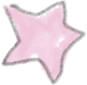
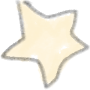
颜色更改

diff --git a/origin/js/app.js b/origin/js/app.js
@@ -6,18 +6,18 @@ import "imgs/fm3_active1_2.png"
 import "imgs/fm3_active2_2.png"
 import "imgs/fm3_active4_2.png"
 import Preload from "js/preload.js"
+import Http from "js/http.js"
 //public
-var log = function (m) { (document.ontouchstart!==null) ?  (alert(m)) : (console.log(m)); }
 var App = {
+    loginUrl: "http://2016spr.disney.e2capp.com/wxapi.php",
     init: function () { //初始化
-        //App.fm_enter(".fm_award"); App.lottery_result(); return;
         App.fm_enter(".fm1");
         setTimeout(function () {
             $(".fm1").fadeOut(1000);
             setTimeout(function () {
                 App.fm_enter(".fm2");
             },1000)
-        },2200)
+        },2200);
     },
     tip: function(_info,_style,_hideTime){ //_style的值有'tip_red'、'tip_green',默认值为'tip_default'
         var randomClass = "tip"+Math.round(Math.random()*1000000000);
@@ -98,11 +98,9 @@ var App = {
         }
         //频道fm_result
         (_fm.indexOf("fm_result") > 0) && setTimeout(function (){
-            App.blink(".fm_baba", 2, null, 500); //执行眨眼操作
+            //App.blink(".fm_baba", 2, null, 500); //执行眨眼操作
             $(_fm).find(".fm_result_star").addClass("fadeOut"); //星星闪烁操作
         },1200);
-        /*//频道fm_noaward
-         _fm == ".fm_noaward" && App.blink(".fm_baba", 2);*/
     },
     gameover: function(){ //游戏结束
         var _score = $(".fm3_score").html()-0;
@@ -110,31 +108,49 @@ var App = {
         window.removeEventListener('deviceorientation', App.tiltEvent);
     },
     lottery_result: function () {
-        //TODO ajax后台获取用户中奖结果,根据结果进入相关结果页面
-        var award_data = "fm_award1",
-            _ercode = "./imgs/fm_ercode222.png";
-        if(award_data=="fm_award1"){ //fm_award1:现金券[后台获取二维码图]
-            $(".fm_ercode").css("backgroundImage","url("+_ercode+")");
-            $(".fm_award").addClass("fm_award1");
-            App.fm_enter(".fm_award");
-        }else if(award_data=="fm_award2"){ //fm_award2:手机壳
-            $(".fm_award").addClass("fm_award2");
-            App.fm_enter(".fm_award");
-        }else{
-            App.fm_enter(".fm_noaward");
-        }
-        /*//未中奖页面
-         App.fm_enter(".fm_noaward");*/
+        Http.goprize(function (_data) { //获取抽奖结果
+            var _state = _data && _data.state;
+            if(_state=="-100"){ //未登录
+                window.location.href = App.loginUrl;
+            }else if(_state=="-1"){
+                App.tip("抱歉，您的抽奖机会已经用完了~");
+            }else{
+                if(_state=="1"){ //fm_award1:现金券
+                    var _ercode = "./imgs/fm_award1.jpg";
+                    //TODO 后台获取二维码图赋值给_ercode
+                    $("#fm_award").attr("src",_ercode);
+                    $(".fm_award").addClass("fm_award1");
+                    App.fm_enter(".fm_award");
+                }else if(_state=="2"){ //fm_award2:手机壳
+                    $(".fm_award").addClass("fm_award2");
+                    App.fm_enter(".fm_award");
+                }else if(_state=="0"){ //未中奖
+                    App.fm_enter(".fm_noaward");
+                }else{
+                    App.tip("网络错误");
+                }
+            }
+        });
     }
 }
 $(document).ready(function () {
+    window.isDebugger = false;
+    window.log = function (m) { (document.ontouchstart!==null) ?  (isDebugger &&　alert(m)) : (console.log(m)); }
     var body_w, body_h;
     var _triggerEvent = (document.ontouchstart!==null) ?  'click' : 'touchstart';
     var scale_fm3_bg = 2551/1206;
     var templ_fm3 = $(".fm3").html();
     var is_mark = false; //是否登记过信息
-    //TODO ajax后台检测是否提交过信息，若登陆过更改is_mark的值为true
-    Preload.init(App.init); //init事件
+    Http.checkLogin(function (_data) { //检测是否登陆[-1为未登录，1为登陆]
+        if(_data=="1"){ //已登陆
+            Preload.init(App.init); //init事件
+            Http.getuserinfo(function (_data) { //获取登陆用户自己的用户资料
+                _data && _data.Tel && (is_mark = true);
+            });
+        }else if(_data=="-1"){ //未登录
+            window.location.href = App.loginUrl;
+        }
+    });
     //fm3_active点击事件【眼睛被点击】
     $("body").on(_triggerEvent,".fm3_active",function (e) {
         (e.target.nodeName=="IMG") ? $(this).attr("src",$(this).data("open")).removeClass("fm3_active") : $(this).remove(); //替换打开图片或移除眼睛
@@ -169,11 +185,18 @@ $(document).ready(function () {
     var phone_regex = new RegExp("1[0-9]{10}");
     $("body").on(_triggerEvent,".fm_result3_btn1",function () {
         var _name = $(".fm_result3_input1").val(), _phone = $(".fm_result3_input2").val();
-        function _passFun() {
-            //TODO ajax后台用户信息提交
-            App.lottery_result();
+        function _passFun(_name,_phone) {
+            Http.updateinfo(_name,_phone, function (_data) { //提交用户信息
+                if(_data=="1"){ //提交成功
+                    App.lottery_result();
+                }else if(_data=="-1"){ //未登录
+                    window.location.href = App.loginUrl;
+                }else if(_data=="-2"){
+                    App.tip("请将信息填写完整");
+                }
+            })
         }
-        (!_name || !_phone) ? App.tip("请将信息填写完整") : ( !phone_regex.test(_phone) ? App.tip("请填写正确的手机号") : _passFun() );
+        (!_name || !_phone) ? App.tip("请将信息填写完整") : ( !phone_regex.test(_phone) ? App.tip("请填写正确的手机号") : _passFun(_name,_phone) );
     });
     //fm_award_btn1点击事件【Replay】
     $("body").on(_triggerEvent,".fm_award_btn1",function () {

diff --git a/origin/css/public.css b/origin/css/public.css
@@ -25,12 +25,12 @@ html,body { height: 100%; max-width: 640px; margin: 0 auto; overflow: hidden; }
 .fm { position: absolute; z-index: 1; width: 100%; height: 100%; display: none; }
 .fm_loading, .fm.cur { display: block; }
 .fm_inmid {position: absolute;width: 100%;background-size: auto 100%;background-position: 50% 50%;background-repeat: no-repeat;text-align: center;}
-.fm_mask1, .fm_mask2 {z-index: 2;background-color: rgba(231,175,204,.92);background-repeat:no-repeat;background-size: 74% auto;background-position: 48% 40%;}
-.fm_mask1 {background-image: url("../imgs/fm_mask1.png"); }
-.fm_mask2 {background-image: url("../imgs/fm_mask2.png"); }
+.fm_mask1, .fm_mask2 {z-index: 2;background-color: rgba(253,239,204,.92);background-repeat:no-repeat;background-size: 74% auto;background-position: 48% 40%;}
+.fm_mask1 {background-image: url("../imgs/fm_mask1.png");background-size: 64% auto;}
+.fm_mask2 {background-image: url("../imgs/fm_mask2.png");}
 .fm_loading span { position: absolute; width: 100%; text-align: center; top: 30%; font-size: 73px; color: #FFF;}
 .fm_loading, .fm1 { background-position: 50% 43%; background-repeat: no-repeat; background-size: 50% auto; }
-.fm_loading, .fm1.state1 { background-color: #e7afcc; background-image: url("../imgs/fm1_eye1.png"); }
+.fm_loading, .fm1.state1 { background-color: #fdefcc; background-image: url("../imgs/fm1_eye1.png"); }
 .fm1.state2 { background-color: #FFF; background-image: url("../imgs/fm1_eye2.png"); }
 .fm1.state3 { background-color: #FFF; background-image: url("../imgs/fm1_eye3.png"); }
 .fm2_txt1 {width: 33%;margin: 22% 0 0 10%;}
@@ -57,9 +57,9 @@ html,body { height: 100%; max-width: 640px; margin: 0 auto; overflow: hidden; }
 .fm_result1_btn1 {width: 50%;top: 48%;left: 24%;}
 .fm_result2_tit1 {width: 77%;top: 17%;left: 13%;}
 .fm_result2_btn1 {width: 50%;top: 52%;left: 24%;}
-.fm_result3_tit1 {width: 77%;top: 17%;left: 13%;}
-.fm_result3_btn1 {width: 44%;top: 52%;left: 32%;}
-.fm_result3_data {position: absolute;width: 100%;top: 33%;height: 12%;}
+.fm_result3_tit1 {width: 65%;top: 17%;left: 18%;}
+.fm_result3_btn1 {width: 41%;top: 54%;left: 34%;}
+.fm_result3_data {position: absolute;width: 100%;top: 36%;height: 12%;}
 .fm_result3_input1,.fm_result3_input2 {border: none;background-color: transparent;background-repeat: no-repeat;background-size: auto 100%;background-position: 58% 50%;height: 50%;width: 57%;padding-left: 43%;}
 .fm_result3_input1 {background-image: url("../imgs/fm_result3_input1.png"); }
 .fm_result3_input2 {background-image: url("../imgs/fm_result3_input2.png");margin-top: 10px;}
@@ -78,20 +78,25 @@ html,body { height: 100%; max-width: 640px; margin: 0 auto; overflow: hidden; }
 .fm_award .fm_result3_star2 {top: 8%;right: 39%;}
 .fm_result3_star3 {width: 9%;top: 27%;right: 8%;}
 .fm_award .fm_result3_star3 {top: 20.5%;}
-.fm_baba {width: 100%;height: 100%;background-position: 100% 100%;background-repeat: no-repeat;background-size: 50% auto;top: 0;left: 0;}
+/*.fm_baba {width: 100%;height: 100%;background-position: 100% 100%;background-repeat: no-repeat;background-size: 50% auto;top: 0;left: 0;}
 .fm_baba.state1 { background-image: url("../imgs/fm_baba1.png"); }
-.fm_baba.state2 { background-image: url("../imgs/fm_baba2.png"); }
+.fm_baba.state2 { background-image: url("../imgs/fm_baba2.png"); }*/
+.fm_result_bigstar { width: 62%; right: 0; bottom: 0; }
+.fm_result_eye1 { width: 17%; left: 7.5%; bottom: 24.5%; }
 .fm_award_tit {height: 11%;top: 13%;}
 .fm_award1 .fm_award_tit { background-image: url("../imgs/fm_award_tit1.png"); }
 .fm_award2 .fm_award_tit { background-image: url("../imgs/fm_award_tit2.png"); }
-.fm_award_con {height: 40%;top: 30%;}
-.fm_award1 .fm_award_con { background-image: url("../imgs/fm_award1_bg.png"); }
-.fm_award2 .fm_award_con { background-image: url("../imgs/fm_award2_bg.png"); }
-.fm_award1 .fm_ercode {position: relative;top: 70%;height: 14%;background-position: 50% 50%;background-repeat: no-repeat;background-size: auto 100%;}
+.fm_award_con {padding-top: 74%;top: 28%;}
+.fm_award_con { background-image: url("../imgs/fm_award_bg.png"); }
+.fm_award_con img {position: absolute; margin: 0 auto; left: 0; right: 0; width: 62%; top: 6%;}
+/*.fm_award_con .fm_ercode {position: relative;top: 70%;height: 14%;background-position: 50% 50%;background-repeat: no-repeat;background-size: auto 100%;}*/
 .fm_award_tit3 {width: 68%;left: 16%;top: 14%;}
-.fm_award_img1 {width: 21%;top: 25%;}
+/*.fm_award_img1 {width: 21%;top: 25%;}*/
 .fm_award_btn1 {width: 50%;left: 25%;top: 33%;}
-.fm_award_txt1 {top: 78%;width: 62%;left: 18%;}
+.fm_award_txt1 {top: 80%;width: 62%;left: 18%;}
+.fm_award2 .fm_award_txt1 {top: 73%;}
+.fm_award_txt2 {top: 73%;width: 68%;left: 16%;}
+.fm_award2 .fm_award_txt2 {display: none;}
 .fm_noaward .fm_award_txt1 {top: 51%;}
 /*-animation.css-*/
 .delay1.animated { -webkit-animation-delay: .8s; animation-delay: .8s; }

diff --git a/origin/index.html b/origin/index.html
@@ -39,7 +39,9 @@
     </div>
     <!--得分通过：congratulations抽大奖-->
     <div class="fm fm_result1">
-        <div class="fm_baba abs state1" data-state="state1"></div>
+        <!--<div class="fm_baba abs state1" data-state="state1"></div>-->
+        <img class="fm_result_bigstar abs" src="./imgs/fm_result_bigstar.png" alt="粉色巴巴爸爸">
+        <img class="fm_result_eye1 abs" src="./imgs/fm_result_eye1.png" alt="粉色巴巴爸爸">
         <img class="fm_result1_tit1 abs animated fadeInUp" src="./imgs/fm_result1_tit1.png" alt="粉色巴巴爸爸">
         <img class="fm_result1_btn1 abs animated fadeIn delay1" src="./imgs/fm_result1_btn1.png" alt="粉色巴巴爸爸">
         <img class="fm_result_star1 fm_result_star abs animated infinite delay1" src="./imgs/fm_result_star1.png" alt="粉色巴巴爸爸">
@@ -48,7 +50,9 @@
     </div>
     <!--得分未通过：再找一次-->
     <div class="fm fm_result2">
-        <div class="fm_baba abs state1" data-state="state1"></div>
+        <!--<div class="fm_baba abs state1" data-state="state1"></div>-->
+        <img class="fm_result_bigstar abs" src="./imgs/fm_result_bigstar.png" alt="粉色巴巴爸爸">
+        <img class="fm_result_eye1 abs" src="./imgs/fm_result_eye1.png" alt="粉色巴巴爸爸">
         <img class="fm_result2_tit1 abs animated fadeInUp" src="./imgs/fm_result2_tit1.png" alt="粉色巴巴爸爸">
         <img class="fm_result2_btn1 abs animated fadeIn delay1" src="./imgs/fm_result2_btn1.png" alt="粉色巴巴爸爸">
         <img class="fm_result_star1 fm_result_star abs animated infinite delay1" src="./imgs/fm_result_star1.png" alt="粉色巴巴爸爸">
@@ -58,7 +62,9 @@
     </div>
     <!--填写抽奖信息-->
     <div class="fm fm_result3">
-        <div class="fm_baba abs state1" data-state="state1"></div>
+        <!--<div class="fm_baba abs state1" data-state="state1"></div>-->
+        <img class="fm_result_bigstar abs" src="./imgs/fm_result_bigstar.png" alt="粉色巴巴爸爸">
+        <img class="fm_result_eye1 abs" src="./imgs/fm_result_eye1.png" alt="粉色巴巴爸爸">
         <img class="fm_result3_tit1 abs animated fadeIn" src="./imgs/fm_result3_tit1.png" alt="粉色巴巴爸爸">
         <form class="fm_result3_data">
             <input type="text" class="fm_result3_input1 animated fadeIn" maxlength="6" value="">
@@ -72,7 +78,8 @@
     <!--抽中奖品【fm_award1:现金券，fm_award2:手机壳】-->
     <div class="fm fm_award">
         <div class="fm_award_tit fm_inmid"></div>
-        <div class="fm_award_con fm_inmid"><div class="fm_ercode"></div></div>
+        <div class="fm_award_con fm_inmid"><img id="fm_award" src="./imgs/fm_award2.jpg" alt="粉色巴巴爸爸"></div>
+        <img class="fm_award_txt2 abs" src="./imgs/fm_award_txt2.png" alt="粉色巴巴兔兔">
         <img class="fm_award_txt1 abs" src="./imgs/fm_award_txt1.png" alt="粉色巴巴兔兔">
         <img class="fm_result3_star1 fm_result_star abs animated infinite" src="./imgs/fm_result3_star1.png" alt="粉色巴巴爸爸">
         <img class="fm_result3_star2 fm_result_star abs animated infinite delay1" src="./imgs/fm_result3_star2.png" alt="粉色巴巴爸爸">
@@ -80,9 +87,11 @@
     </div>
     <!--未抽中奖品-->
     <div class="fm fm_noaward">
-        <div class="fm_baba abs state1" data-state="state1"></div>
+        <!--<div class="fm_baba abs state1" data-state="state1"></div>-->
+        <img class="fm_result_bigstar abs" src="./imgs/fm_result_bigstar.png" alt="粉色巴巴爸爸">
+        <img class="fm_result_eye1 abs" src="./imgs/fm_result_eye1.png" alt="粉色巴巴爸爸">
         <img class="fm_award_tit3 abs" src="./imgs/fm_award_tit3.png" alt="粉色巴巴兔兔">
-        <img class="fm_award_img1 abs" src="./imgs/fm_award_img1.png" alt="粉色巴巴兔兔">
+        <!--<img class="fm_award_img1 abs" src="./imgs/fm_award_img1.png" alt="粉色巴巴兔兔">-->
         <img class="fm_award_btn1 abs" src="./imgs/fm_award_btn1.png" alt="粉色巴巴兔兔">
         <img class="fm_award_txt1 abs" src="./imgs/fm_award_txt1.png" alt="粉色巴巴兔兔">
     </div>

diff --git a/origin/js/http.js b/origin/js/http.js
@@ -1,0 +1,58 @@
+/**
+ * Created by Administrator on 2016/6/29 0029.
+ */
+var Http = {
+    prefix: "http://www.thewap.cn/baba2016/api/data.php",
+    request: function(url, data, success, error, method ){
+        $.ajax({
+            url: Http.prefix + url,
+            type: method ? method : "POST",
+            data: data || {},
+            success: function(_res){
+                if(typeof _res == "string"){ _res = eval("("+_res+")"); }
+                success && success(_res);
+            },
+            error: function(xhr, type){
+                console.log("来自"+url+"的error xhr: "+JSON.stringify(xhr));
+                var err = {};
+                try {
+                    var d = $.parseJSON(xhr.responseText);
+                    err = $.extend(err, d);
+                } catch (e) {
+                    err.Msg = xhr.responseText || "网络错误，请稍后重试._来自http.request.error";
+                }
+                var r = error && error(err);
+                if (r !== false) {
+                    log(err.Msg || err.Message);
+                }
+            }
+        });
+    },
+    checkLogin: function(success, error){ //判断是否登陆
+        var data = {
+            "action": "checkLogin"
+        }
+        this.request("", data, success, error);
+    },
+    getuserinfo: function(success, error){ //获取登陆用户自己的用户资料
+        var data = {
+            "action": "getuserinfo"
+        }
+        this.request("", data, success, error);
+    },
+    updateinfo: function(username, mobile, success, error){ //填写用户资料
+        var data = {
+            "action": "updateinfo",
+            "username": username,
+            "mobile": mobile
+        }
+        this.request("", data, success, error);
+    },
+    goprize: function(success, error){ //抽奖
+        var data = {
+            "action": "goprize"
+        }
+        this.request("", data, success, error);
+    }
+}
+module.exports = Http;

diff --git a/origin/js/preload.js b/origin/js/preload.js
@@ -4,13 +4,20 @@
 import createjs from "js/preloadjs.min.js"
 var Preload = {
     manifest: [ //定义相关JSON格式文件列表
-        { src: "./imgs/fm_award_bg1.png" },
-        { src: "./imgs/fm_award_btn1.png" },
-        { src: "./imgs/fm_award_img1.jpg" },
-        { src: "./imgs/fm_award_tit1.png" },
-        { src: "./imgs/fm_baba1.png" },
-        { src: "./imgs/fm_baba2.png" },
         { src: "./imgs/fm_bg.jpg" },
+        { src: "./imgs/fm_mask1.png" },
+        { src: "./imgs/fm_mask2.png" },
+        { src: "./imgs/fm_result1_tit1.png" },
+        { src: "./imgs/fm_result2_tit1.png" },
+        { src: "./imgs/fm1_eye1.png" },
+        { src: "./imgs/fm1_eye2.png" },
+        { src: "./imgs/fm1_eye3.png" },
+        { src: "./imgs/fm3_active1_1.png" },
+        { src: "./imgs/fm3_active1_2.png" },
+        { src: "./imgs/fm3_active2_1.png" },
+        { src: "./imgs/fm3_active2_2.png" },
+        { src: "./imgs/fm3_active4_1.png" },
+        { src: "./imgs/fm3_active4_2.png" },
         { src: "./imgs/fm3_bg.jpg" }
     ],
     init: function(_completeFun){ //开始预加载

diff --git a/webpack.config.js b/webpack.config.js
@@ -10,7 +10,7 @@ var webpackConfigs = {
   entry: { app: 'js/app.js' }, //打包后整合出来的js文件
   output: {
     path: path.join(__dirname, 'dist'),
-    publicPath: 'http://192.168.0.106:8888/', //生成后图片&js的前缀路径
+    //publicPath: 'http://192.168.0.106:8888/', //生成后图片&js的前缀路径
     filename: 'js/[name].[hash].js', //整合后的js命名规则
     chunkFilename: 'js/[chunkhash].js'
   },
